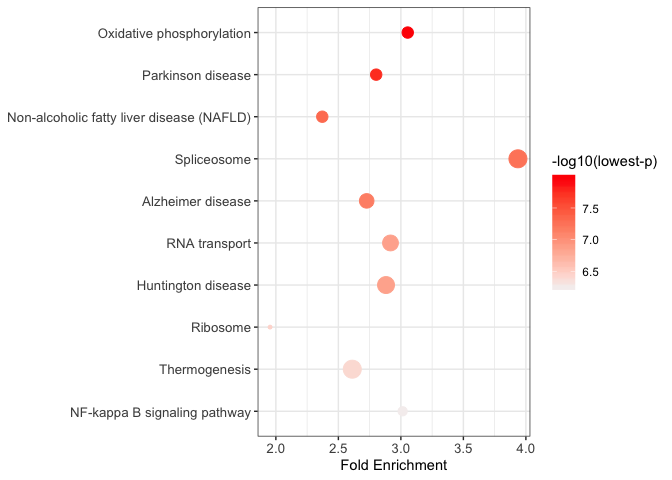
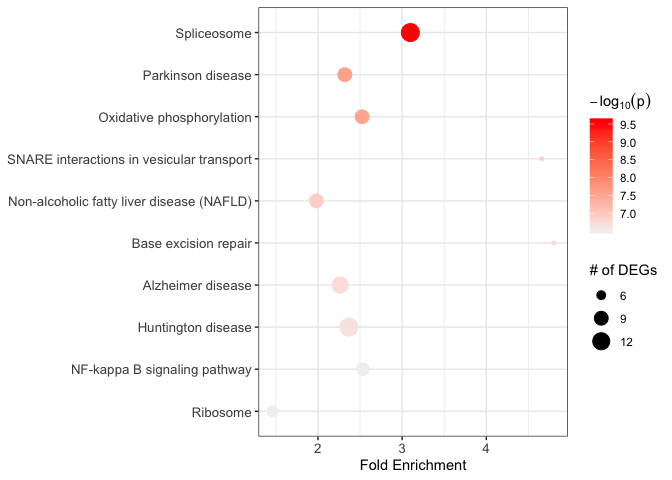
modify `enrichment_chart`

diff --git a/README.md b/README.md
@@ -46,8 +46,7 @@ install.packages("pathfindR")
 And the development version from [GitHub](https://github.com/) with:
 
 ``` r
-# if you have not installed "devtools"
-# install.packages("devtools")
+install.packages("devtools") # if you have not installed "devtools"
 devtools::install_github("egeulgen/pathfindR")
 ```
 
@@ -77,15 +76,15 @@ details.
 ![pathfindR Enrichment Workflow](./vignettes/pathfindr.png?raw=true
 "pathfindr Enrichment Workflow")
 
-This workflow takes in a data frame consisting of Gene symbols,
-log-fold-change (optional) and associated p values.
+This workflow takes in a data frame consisting of “gene symbols”,
+“change values” (optional) and “associated p values”:
 
-| Gene.symbol |     logFC | adj.P.Val |
-| :---------- | --------: | --------: |
-| FAM110A     | \-0.69394 |   0.00000 |
-| RNASE2      |   1.35350 |   0.00001 |
-| S100A8      |   1.54483 |   0.00003 |
-| S100A9      |   1.02809 |   0.00023 |
+| Gene\_symbol | logFC  | FDR\_p  |
+| :----------- | :----: | :-----: |
+| FAM110A      | \-0.69 | 3.4e-06 |
+| RNASE2       |  1.35  | 1.0e-05 |
+| S100A8       |  1.54  | 3.5e-05 |
+| S100A9       |  1.03  | 2.3e-04 |
 
 After input testing, any gene symbol that is not in the chosen
 protein-protein interaction network (PIN) is converted to an alias
@@ -121,13 +120,13 @@ output_df <- run_pathfindR(input_df)
 
 This wrapper function performs the active-subnetwork-oriented enrichment
 analysis and returns a data frame of enriched terms (as well as
-visualization of enriched terms and an HTML report)
+visualization of enriched terms and an HTML report):
 
-| ID       | Term\_Description                         | Fold\_Enrichment | occurrence | lowest\_p | highest\_p | Up\_regulated                                                   | Down\_regulated        |
-| :------- | :---------------------------------------- | ---------------: | ---------: | --------: | ---------: | :-------------------------------------------------------------- | :--------------------- |
-| hsa00190 | Oxidative phosphorylation                 |           3.0548 |         10 |         0 |          0 | NDUFA1, NDUFB3, UQCRQ, COX6A1, COX7A2, COX7C, ATP6V1D, ATP6V0E1 | ATP6V0E2               |
-| hsa05012 | Parkinson disease                         |           2.8024 |         10 |         0 |          0 | NDUFA1, NDUFB3, UQCRQ, COX6A1, COX7A2, COX7C                    | UBE2G1, VDAC1, SLC25A5 |
-| hsa04932 | Non-alcoholic fatty liver disease (NAFLD) |           2.3712 |         10 |         0 |          0 | DDIT3, NDUFA1, NDUFB3, UQCRQ, COX6A1, COX7A2, COX7C             | IKBKB, FASLG           |
+| ID       | Term\_Description         | Fold\_Enrichment | occurrence | lowest\_p | highest\_p | Up\_regulated         | Down\_regulated |
+| :------- | :------------------------ | :--------------: | :--------: | :-------: | :--------: | :-------------------- | :-------------- |
+| hsa03040 | Spliceosome               |      3.0975      |     10     |  2.6e-10  |  3.7e-09   | NDUFA1, NDUFB3, UQCRQ | SNRPB, SF3B2    |
+| hsa05012 | Parkinson disease         |      2.3188      |     10     |  2.7e-08  |  2.7e-08   | COX7C                 | UBE2G1, VDAC1   |
+| hsa00190 | Oxidative phosphorylation |      2.5240      |     10     |  2.9e-08  |  2.9e-08   | DDIT3, NDUFA1         | ATP6V0E2        |
 
 <img src="inst/extdata/example_output-1.png" width="100%" />
 

diff --git a/NEWS.md b/NEWS.md
@@ -35,6 +35,7 @@
 - Minor fix in `visualize_term_interactions()`. The legend no longer displays "Non-input Active Snw. Genes" if they were not provided
 - The argument `human_genes` in `run_pathfindR()` and `input_processing()` was renamed as `convert2alias`
 - The gene symbols in the input data frame, the PIN and the gene sets are now turned into uppercase (for obtaining the best overlap)
+- Added the argument `top_terms` to `enrichment_chart()`, controlling the number top enriched terms to plot (default is 10)
 
 # pathfindR 1.3.0
 
